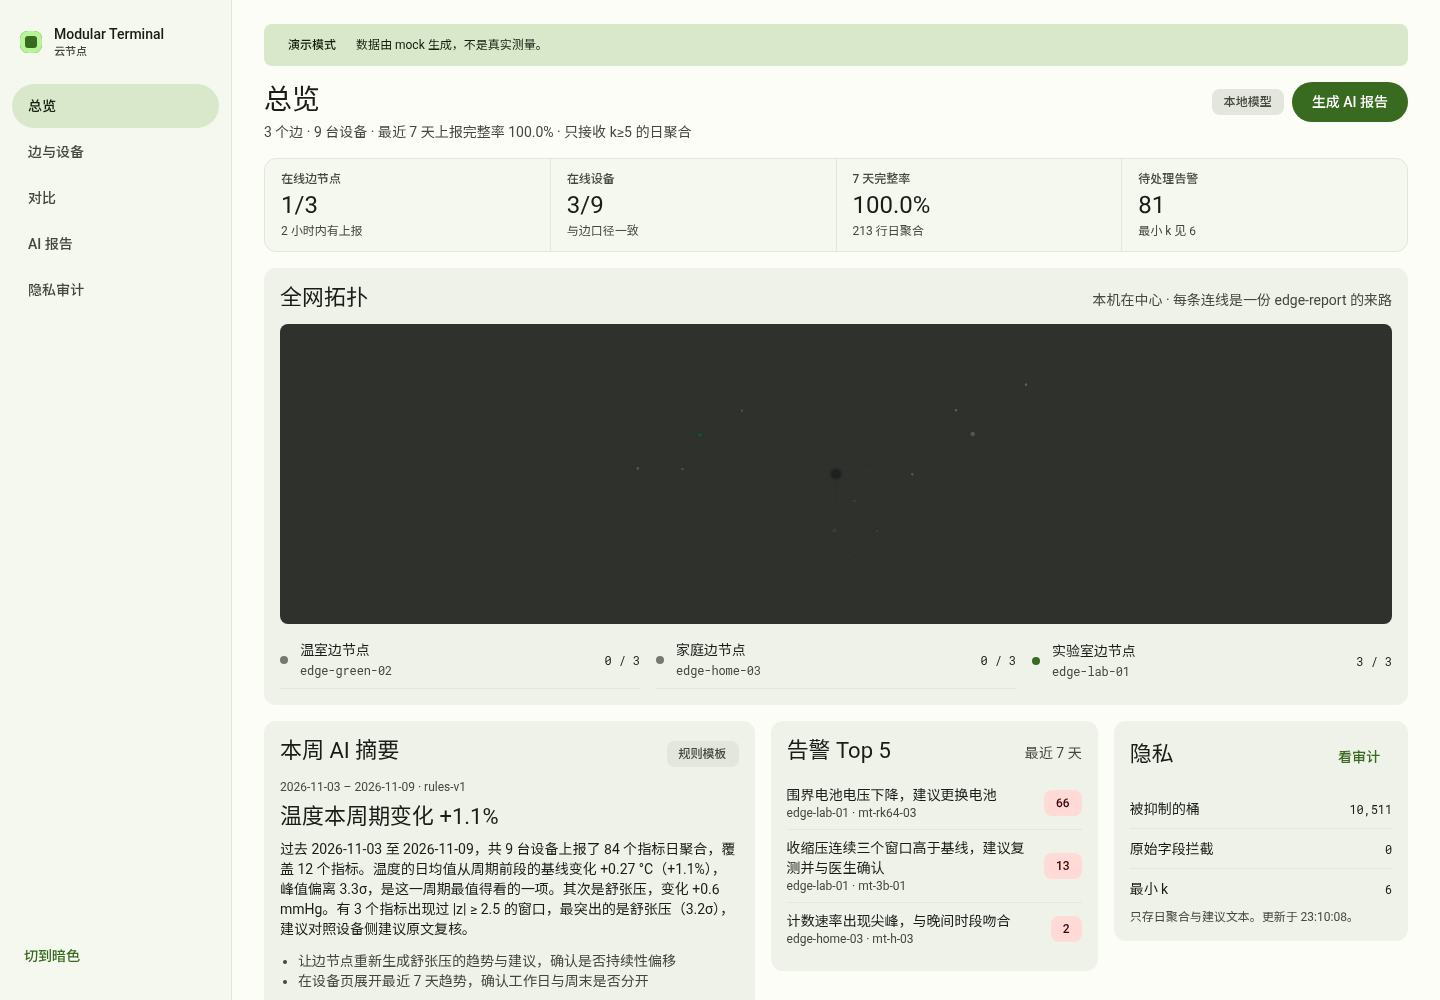
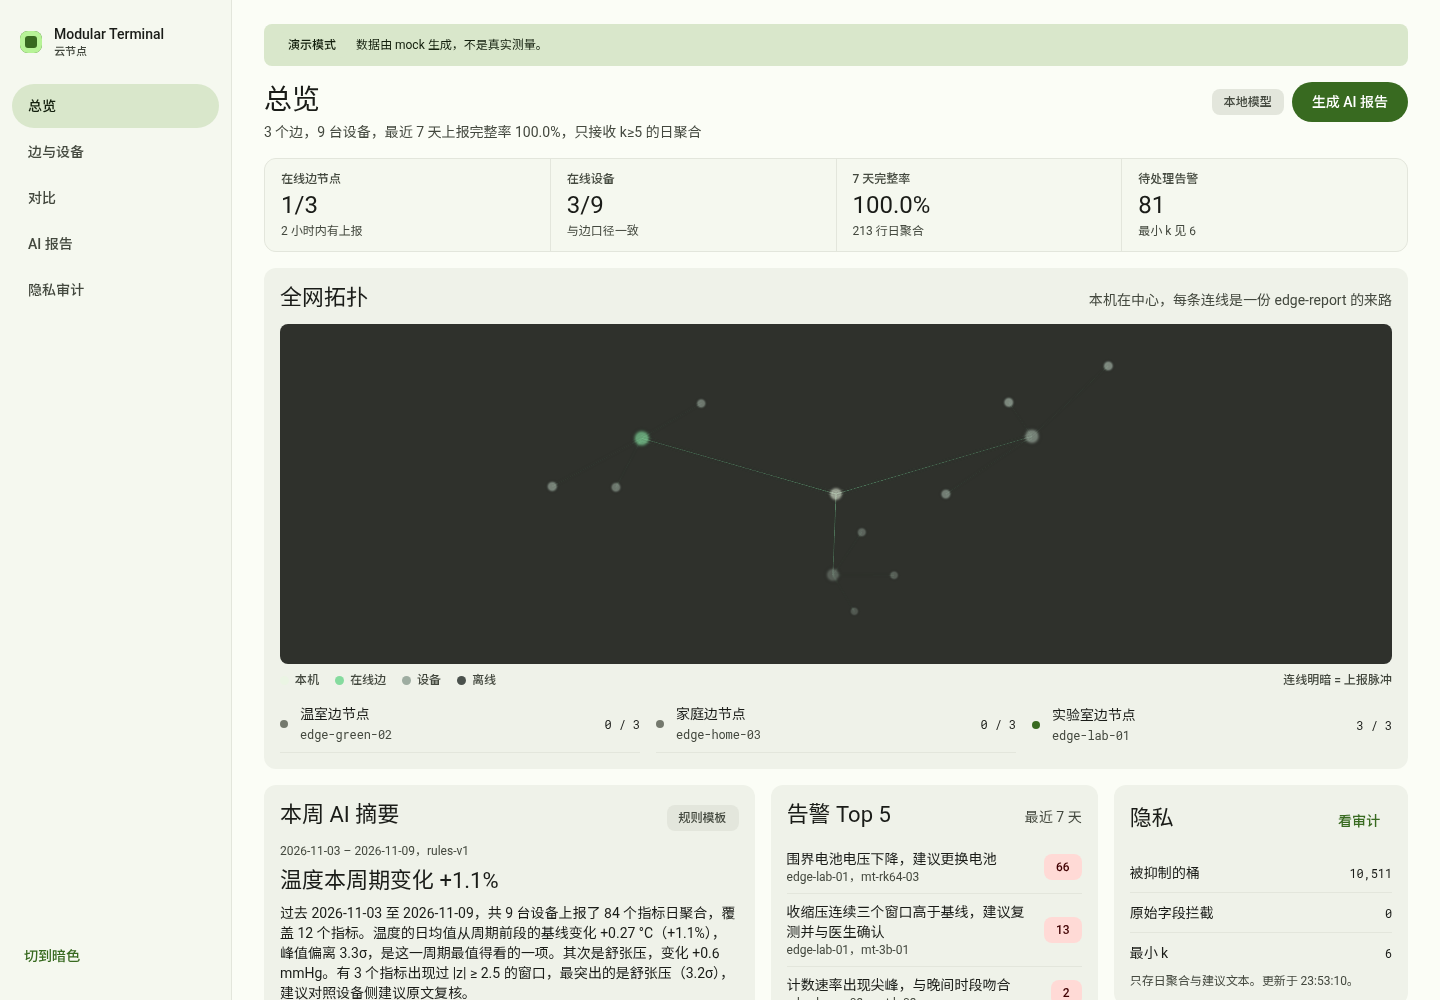
feat(cloud): 拓扑提亮、去间隔点、Ollama 本地路径修复与实测
- 星座图换亮色、节点加大、连线加粗（三条错位线模拟 2px），加图例
- 网页中文之间的间隔点全部去掉，长句改用中文逗号
- 词云调深配色与字号，浅底上可读
- 修 _ollama 里未定义的 task（会抛 NameError），改为取 summary.task
- 新增 tests/test_ai_ollama.py：桩服务验证本地模型请求/JSON 契约，
  以及模型不可达时落规则模板；公有 API 也补 task 字段
- README：测试数、GPU 与外接盘实测情况更新

验证：25 个测试、5 页冒烟、6 个视图 × 3 宽度 0 FAIL；
独立目录模拟外接盘跑通备份 + 恢复演练；本机无 NVIDIA GPU，
CUDA/7B 延迟未实测。

diff --git a/web/src/views/Overview.vue b/web/src/views/Overview.vue
@@ -50,7 +50,7 @@ const kpis = computed(() => {
 <template>
   <PageHeader
     title="总览"
-    :sub="`${o?.edges_total || 0} 个边 · ${o?.devices_total || 0} 台设备 · 最近 7 天上报完整率 ${fmtNum(o?.completeness_7d, 1)}% · 只接收 k≥5 的日聚合`"
+    :sub="`${o?.edges_total || 0} 个边，${o?.devices_total || 0} 台设备，最近 7 天上报完整率 ${fmtNum(o?.completeness_7d, 1)}%，只接收 k≥5 的日聚合`"
   >
     <span class="md-chip">{{ o?.ai_mode === 'api' ? '公有 API' : '本地模型' }}</span>
     <RouterLink class="md-btn" to="/reports">生成 AI 报告</RouterLink>
@@ -62,9 +62,16 @@ const kpis = computed(() => {
   <section class="md-card">
     <div class="section-head">
       <h2>全网拓扑</h2>
-      <span class="md-muted">本机在中心 · 每条连线是一份 edge-report 的来路</span>
+      <span class="md-muted">本机在中心，每条连线是一份 edge-report 的来路</span>
     </div>
     <canvas ref="canvas" class="topology"></canvas>
+    <div class="topo-legend" aria-hidden="true">
+      <span><i class="lg lg--center"></i>本机</span>
+      <span><i class="lg lg--edge"></i>在线边</span>
+      <span><i class="lg lg--sat"></i>设备</span>
+      <span><i class="lg lg--off"></i>离线</span>
+      <span class="topo-note">连线明暗 = 上报脉冲</span>
+    </div>
     <div class="topo-list">
       <div v-for="e in o?.edges || []" :key="e.edge_id" class="md-list-row">
         <span class="dot" :class="e.online_devices ? 'dot--on' : ''"></span>
@@ -84,7 +91,7 @@ const kpis = computed(() => {
         <span class="md-chip">{{ latest?.content?.confidence === 'high' ? '高置信' : '规则模板' }}</span>
       </div>
       <template v-if="latest">
-        <p class="md-muted small">{{ latest.period_start }} – {{ latest.period_end }} · {{ latest.model }}</p>
+        <p class="md-muted small">{{ latest.period_start }} – {{ latest.period_end }}，{{ latest.model }}</p>
         <h3 class="headline">{{ latest.content.headline }}</h3>
         <p class="narrative">{{ latest.content.narrative }}</p>
         <ul class="actions">
@@ -104,7 +111,7 @@ const kpis = computed(() => {
         <div v-for="(a, i) in o?.alerts_top || []" :key="i" class="md-list-row">
           <div class="md-grow">
             <div>{{ a.text }}</div>
-            <div class="md-muted small">{{ a.edge }} · {{ a.device }}</div>
+            <div class="md-muted small">{{ a.edge }}，{{ a.device }}</div>
           </div>
           <span class="md-chip" :class="a.risk === 'alert' ? 'md-chip--alert' : 'md-chip--warn'">{{ a.count }}</span>
         </div>
@@ -138,11 +145,36 @@ const kpis = computed(() => {
   gap: 0 var(--space-4); margin-top: var(--space-2);
 }
 .topology {
-  width: 100%; height: 300px; display: block;
+  width: 100%; height: 340px; display: block;
   border-radius: var(--md-shape-sm);
   /* 星座图是加色混合，配反色底 */
   background: var(--md-inverse-surface);
 }
+.topo-legend {
+  display: flex;
+  align-items: center;
+  gap: var(--space-4);
+  margin-top: var(--space-2);
+  font: var(--md-label-medium);
+  color: var(--md-on-surface-variant);
+  flex-wrap: wrap;
+}
+.topo-legend span {
+  display: inline-flex;
+  align-items: center;
+  gap: 6px;
+}
+.lg {
+  width: 9px;
+  height: 9px;
+  border-radius: 50%;
+  display: inline-block;
+}
+.lg--center { background: #ebf5e4; }
+.lg--edge { background: #85db9e; }
+.lg--sat { background: #9eada1; }
+.lg--off { background: #4a514c; }
+.topo-note { margin-left: auto; }
 .trio {
   display: grid; grid-template-columns: minmax(0, 1.5fr) minmax(0, 1fr) minmax(0, 0.9fr);
   gap: var(--space-4); margin-top: var(--space-4); align-items: start;

diff --git a/web/src/lib/constellation.js b/web/src/lib/constellation.js
@@ -21,7 +21,7 @@ void main() {
   float depth = clamp(1.0 - (-view.z - 2.2) / 5.0, 0.0, 1.0);
   gl_PointSize = aSize * (0.75 + 0.6 * depth) * (1.0 + 0.04 * sin(uTime * 2.0 + aPos.x * 4.0));
   vColor = aColor;
-  vAlpha = 0.35 + 0.65 * depth;
+  vAlpha = 0.58 + 0.42 * depth;
 }`;
 
 const FS = `#version 300 es
@@ -52,18 +52,18 @@ void main() {
   float depth = clamp(1.0 - (-view.z - 2.2) / 5.0, 0.0, 1.0);
   // 数据沿链路流动：靠近 0 的那端更亮
   float pulse = 0.55 + 0.45 * sin(uTime * 1.6 + aPos.x * 3.0 + aPos.z * 2.0);
-  vAlpha = aFade * (0.18 + 0.5 * depth) * pulse;
+  vAlpha = aFade * (0.62 + 0.38 * depth) * (0.75 + 0.25 * pulse);
 }`;
 
 const LINE_FS = `#version 300 es
 precision highp float;
 in float vAlpha;
 out vec4 outColor;
-void main() { outColor = vec4(0.078, 0.412, 0.353, vAlpha); }`;
+void main() { outColor = vec4(0.58, 0.98, 0.72, vAlpha); }`;
 
-const TEAL = [0.078, 0.412, 0.353];
-const INK = [0.071, 0.086, 0.102];
-const GREY = [0.48, 0.54, 0.51];
+const TEAL = [0.52, 0.86, 0.62];
+const INK = [0.92, 0.96, 0.88];
+const GREY = [0.62, 0.68, 0.63];
 
 export function createConstellation(canvas) {
   const gl = canvas.getContext("webgl2", { antialias: true, alpha: true, premultipliedAlpha: false });
@@ -113,12 +113,15 @@ export function createConstellation(canvas) {
       nodes.size.push(s);
     };
     const link = (a, b, fade) => {
-      links.pos.push(a[0], a[1], a[2], b[0], b[1], b[2]);
-      links.fade.push(fade, fade);
+      // WebGL 的 lineWidth 不可靠：用三条轻微错位的线伪装成 2px 粗细
+      for (const dy of [-0.014, 0, 0.014]) {
+        links.pos.push(a[0], a[1] + dy, a[2], b[0], b[1] + dy, b[2]);
+        links.fade.push(dy ? fade * 0.5 : fade, dy ? fade * 0.5 : fade);
+      }
     };
 
     const center = [0, 0, 0];
-    push(center, INK, 11);
+    push(center, INK, 30);
 
     const n = Math.max(1, edges.length);
     edges.forEach((e, i) => {
@@ -126,7 +129,7 @@ export function createConstellation(canvas) {
       const r = n === 1 ? 0 : 1.15;
       // 三个边放在不同高度，投影后才有纵深，不会压成一条横线
       const hub = [Math.cos(ang) * r, Math.sin(ang) * 0.62, Math.sin(ang) * r * 0.85];
-      push(hub, e.online === false ? GREY : TEAL, 7.5);
+      push(hub, e.online === false ? GREY : TEAL, 22);
       link(center, hub, 0.9);
 
       const k = Math.max(1, e.devices || 1);
@@ -137,13 +140,13 @@ export function createConstellation(canvas) {
           hub[1] + Math.sin(a2 * 1.3) * 0.34,
           hub[2] + Math.sin(a2) * 0.40,
         ];
-        push(sat, GREY, 4.2);
+        push(sat, GREY, 14);
         link(hub, sat, 0.5);
       }
     });
 
     // 只有真实有告警时才让环更亮，避免"一直很兴奋"
-    nodes.size[0] = 9 + Math.min(6, alerts * 0.3);
+    nodes.size[0] = 13 + Math.min(6, alerts * 0.3);
 
     gl.bindBuffer(gl.ARRAY_BUFFER, nodeBufs.pos);
     gl.bufferData(gl.ARRAY_BUFFER, new Float32Array(nodes.pos), gl.DYNAMIC_DRAW);
@@ -175,7 +178,7 @@ export function createConstellation(canvas) {
 
   const view = lookAt([0, 1.1, 4.1], [0, 0, 0], [0, 1, 0]);
   const fitProj = (a) => {
-    const d = 4.1, W = 3.9, H = 2.4;
+    const d = 4.1, W = 3.1, H = 1.9;
     const visH = Math.max(H, W / a);
     return perspective(2 * Math.atan(visH / 2 / d), a, 0.1, 20);
   };

diff --git a/web/src/views/DeviceDetail.vue b/web/src/views/DeviceDetail.vue
@@ -101,10 +101,10 @@ const wordOption = computed(() => ({
   tooltip: { formatter: (p) => `${p.name}：${p.value}` },
   series: [{
     type: 'wordCloud', shape: 'square', left: 0, top: 0, right: 0, bottom: 0,
-    sizeRange: [13, 30], rotationRange: [0, 0],
+    sizeRange: [14, 40], rotationRange: [0, 0],
     textStyle: {
       fontFamily: 'Roboto, Noto Sans SC, sans-serif',
-      color: () => `hsl(${105 + Math.random() * 40}, ${25 + Math.random() * 20}%, ${28 + Math.random() * 22}%)`,
+      color: () => `hsl(${112 + Math.random() * 34}, ${38 + Math.random() * 18}%, ${24 + Math.random() * 12}%)`,
     },
     data: words.value.slice(0, 40).map((w) => ({ name: w.word, value: w.count })),
   }],
@@ -114,7 +114,7 @@ const wordOption = computed(() => ({
 <template>
   <PageHeader
     :title="device ? device.device_id : '设备'"
-    :sub="device ? `${device.edge_id} · ${device.scene || '—'} · 在线 ${device.online ? '是' : '否'}` : ''"
+    :sub="device ? `${device.edge_id}，${device.scene || '—'}，在线：${device.online ? '是' : '否'}` : ''"
   >
     <RouterLink class="md-btn md-btn--text" to="/edges">返回边与设备</RouterLink>
   </PageHeader>
@@ -144,7 +144,7 @@ const wordOption = computed(() => ({
       <section class="md-card">
         <div class="section-head">
           <h2>词云</h2>
-          <span class="md-muted">该边的建议用词 · 最近 7 天</span>
+          <span class="md-muted">该边的建议用词，最近 7 天</span>
         </div>
         <ChartBox :option="wordOption" height="280px" />
       </section>
@@ -160,7 +160,7 @@ const wordOption = computed(() => ({
           <span class="md-chip" :class="a.risk === 'alert' ? 'md-chip--alert' : 'md-chip--warn'">{{ a.risk }}</span>
           <div class="md-grow">
             <div>{{ a.text }}</div>
-            <div class="md-muted small">{{ fmtTime(a.created_at) }} · {{ a.source }}</div>
+            <div class="md-muted small">{{ fmtTime(a.created_at) }}，{{ a.source }}</div>
           </div>
         </div>
         <p v-if="!advice.length" class="md-muted">这台设备最近没有建议。</p>

diff --git a/web/src/views/Reports.vue b/web/src/views/Reports.vue
@@ -136,8 +136,7 @@ const budget = computed(() => health.value?.api_budget ?? 0)
       <template v-if="detail">
         <div class="ai-head">
           <span class="md-muted small">
-            {{ scopeLabel[detail.scope] || detail.scope }} · {{ detail.model }} ·
-            {{ fmtDay(detail.content.period.from) }} – {{ fmtDay(detail.content.period.to) }}
+            {{ scopeLabel[detail.scope] || detail.scope }}，{{ detail.model }} {{ fmtDay(detail.content.period.from) }} – {{ fmtDay(detail.content.period.to) }}
           </span>
           <button class="md-btn md-btn--text" :disabled="busy" @click="regenerate">按原区间重新生成</button>
           <span class="md-chip" :class="detail.content.confidence === 'high' ? 'md-chip--ok' : 'md-chip--warn'">
@@ -161,7 +160,7 @@ const budget = computed(() => health.value?.api_budget ?? 0)
           <li v-for="(a, i) in detail.content.actions || []" :key="i">{{ a }}</li>
         </ul>
         <p class="md-muted small foot">
-          prompt {{ detail.prompt_hash }} · {{ detail.model }} · {{ fmtDay(detail.period_start) }}
+          prompt {{ detail.prompt_hash }}，{{ detail.model }}，{{ fmtDay(detail.period_start) }}
         </p>
       </template>
       <p v-else class="md-muted">选一份报告看详情。</p>

diff --git a/web/src/views/Edges.vue b/web/src/views/Edges.vue
@@ -27,7 +27,7 @@ const nameOf = (id) => edges.value.find((e) => e.edge_id === id)?.name || id
 <template>
   <PageHeader
     title="边与设备"
-    :sub="`${edges.length} 个边 · ${devices.length} 台设备。点边看设备，点设备看趋势。`"
+    :sub="`${edges.length} 个边、${devices.length} 台设备。点边看设备，点设备看趋势。`"
   >
     <span class="md-chip">{{ devices.filter((d) => d.online).length }} 台在线</span>
     <button v-if="activeEdge" class="md-btn md-btn--text" @click="activeEdge = ''">显示全部边</button>
@@ -64,7 +64,7 @@ const nameOf = (id) => edges.value.find((e) => e.edge_id === id)?.name || id
   <section class="md-card devices">
     <div class="section-head">
       <h2>设备</h2>
-      <span class="md-muted">{{ activeEdge ? nameOf(activeEdge) + ' · ' : '' }}{{ shown.length }} 台</span>
+      <span class="md-muted">{{ activeEdge ? nameOf(activeEdge) + '，' : '' }}{{ shown.length }} 台</span>
     </div>
     <table class="md-table">
       <thead>

diff --git a/web/src/views/Compare.vue b/web/src/views/Compare.vue
@@ -85,7 +85,7 @@ const rows = computed(() => {
   <section class="md-card">
     <div class="section-head">
       <h2>跨边走势</h2>
-      <span class="md-muted">{{ data?.metric }} · {{ (data?.days || []).length }} 天</span>
+      <span class="md-muted">{{ data?.metric }}，{{ (data?.days || []).length }} 天</span>
     </div>
     <ChartBox :option="option" height="320px" />
   </section>

diff --git a/tests/test_ai_ollama.py b/tests/test_ai_ollama.py
@@ -1,0 +1,78 @@
+"""模式 B：本地 Ollama 的请求/响应契约，以及不可达时的规则兜底。"""
+from __future__ import annotations
+
+import json
+import os
+import sys
+import tempfile
+import threading
+import unittest
+from http.server import BaseHTTPRequestHandler, HTTPServer
+from pathlib import Path
+
+ROOT = Path(__file__).resolve().parent.parent
+sys.path.insert(0, str(ROOT))
+_TMP = tempfile.mkdtemp(prefix="cloud-ai-ollama-")
+os.environ.setdefault("CLOUD_DATA_DIR", _TMP)
+
+from tests.support import ensure_pg  # noqa: E402
+
+ensure_pg()
+
+from cloud import ai, config, seed, store  # noqa: E402
+
+REPORT = {
+    "schema": "ai.report.v1",
+    "headline": "温度本周期上升 1.2 °C",
+    "narrative": "温室边节点的温度在周期后段抬升，与午后通风不足的时间吻合。",
+    "findings": [{"label": "温度", "detail": "均值 24.1 °C", "risk": "watch"}],
+    "actions": ["检查午后通风"],
+    "confidence": "high",
+}
+
+
+class _Handler(BaseHTTPRequestHandler):
+    calls = 0
+
+    def do_POST(self):  # noqa: N802
+        type(self).calls += 1
+        raw = json.dumps({"response": json.dumps(REPORT, ensure_ascii=False)}).encode()
+        self.send_response(200)
+        self.send_header("content-type", "application/json")
+        self.send_header("content-length", str(len(raw)))
+        self.end_headers()
+        self.wfile.write(raw)
+
+    def log_message(self, *args):
+        pass
+
+
+class OllamaTest(unittest.TestCase):
+    @classmethod
+    def setUpClass(cls):
+        store.init_db()
+        seed.generate(5)
+        cls.server = HTTPServer(("127.0.0.1", 0), _Handler)
+        threading.Thread(target=cls.server.serve_forever, daemon=True).start()
+        cls.old = (config.AI_MODE, config.OLLAMA_URL, config.OLLAMA_MODEL)
+        config.AI_MODE = "local"
+        config.OLLAMA_URL = f"http://127.0.0.1:{cls.server.server_port}"
+        config.OLLAMA_MODEL = "stub-7b"
+
+    @classmethod
+    def tearDownClass(cls):
+        cls.server.shutdown()
+        config.AI_MODE, config.OLLAMA_URL, config.OLLAMA_MODEL = cls.old
+
+    def test_local_model_path_and_task(self):
+        out = ai.generate("edge", "edge-lab-01", task="fleet_compare", period=("2026-11-01", "2026-11-09"))
+        self.assertEqual(out["model"], "stub-7b", out)
+        self.assertEqual(out["content"]["task"], "fleet_compare")
+        self.assertEqual(out["content"]["period"]["from"], "2026-11-01")
+        self.assertGreaterEqual(_Handler.calls, 1)
+
+    def test_unreachable_falls_back_to_rules(self):
+        config.OLLAMA_URL = "http://127.0.0.1:1"
+        out = ai.generate("device", "no-such-device", task="advice_digest")
+        self.assertEqual(out["model"], "rules-v1")
+        self.assertTrue(out["content"]["narrative"])

diff --git a/cloud/ai.py b/cloud/ai.py
@@ -328,6 +328,7 @@ def _public_api(summary: dict[str, Any]) -> dict[str, Any] | None:
             data.setdefault("scope_id", summary["scope_id"])
             data.setdefault("period", {"from": summary["from"], "to": summary["to"]})
             data.setdefault("confidence", "high")
+            data.setdefault("task", summary.get("task", "weekly_narrative"))
             usage = payload.get("usage") or {}
             store.bump("api_tokens", int(usage.get("total_tokens", 0)))
             return data
@@ -355,7 +356,7 @@ def _ollama(summary: dict[str, Any]) -> dict[str, Any] | None:
             data.setdefault("scope_id", summary["scope_id"])
             data.setdefault("period", {"from": summary["from"], "to": summary["to"]})
             data.setdefault("confidence", "high")
-            data.setdefault("task", task)
+            data.setdefault("task", summary.get("task", "weekly_narrative"))
             return data
         except (httpx.HTTPError, KeyError, ValueError, TypeError):
             if attempt == 2:

diff --git a/README.md b/README.md
@@ -121,8 +121,8 @@ export CLOUD_ADMIN_TOTP='用 python3 -c "from cloud import auth;print(auth.secre
 python3 -m unittest discover -s tests -t . -v
 ```
 
-**22 个用例**：摄取边界、审计口径、AI 契约与缓存、TOTP 与会话、
-公有 API 的成功/失败/超额三条路径。
+**25 个用例**：摄取边界、审计口径、AI 契约与缓存、TOTP 与会话、
+公有 API 的成功/失败/超额三条路径、本地 Ollama 契约与不可达兜底、显式 period。
 
 ## 与架构文档 v2.2 的逐条对照
 
@@ -141,8 +141,8 @@ python3 -m unittest discover -s tests -t . -v
 
 | 方案里的东西 | 现状 |
 |---|---|
-
-| 备份落外接 USB 盘 | 路径可配（`CLOUD_BACKUP_HOST_DIR`），默认落在仓库的 `backups/`；换盘只改环境变量 |
+| GPU（P104 / CUDA） | 本机没有 NVIDIA 显卡，`nvidia-smi` 不存在；本地模型路径用桩服务验证了请求与 JSON 契约，CUDA offload 与 7B 延迟未实测 |
+| 备份落外接 USB 盘 | 路径可配（`CLOUD_BACKUP_HOST_DIR`）；已用独立目录模拟外接盘跑通备份与恢复演练，插真盘只改环境变量 |
 | 每周副本的异地存放 | 加密副本已做（gpg AES256），但"拷到另一块盘"属于运维动作，代码只负责生成 |
 | 多租户 | 明确不做（方案里也不在范围） |
 
